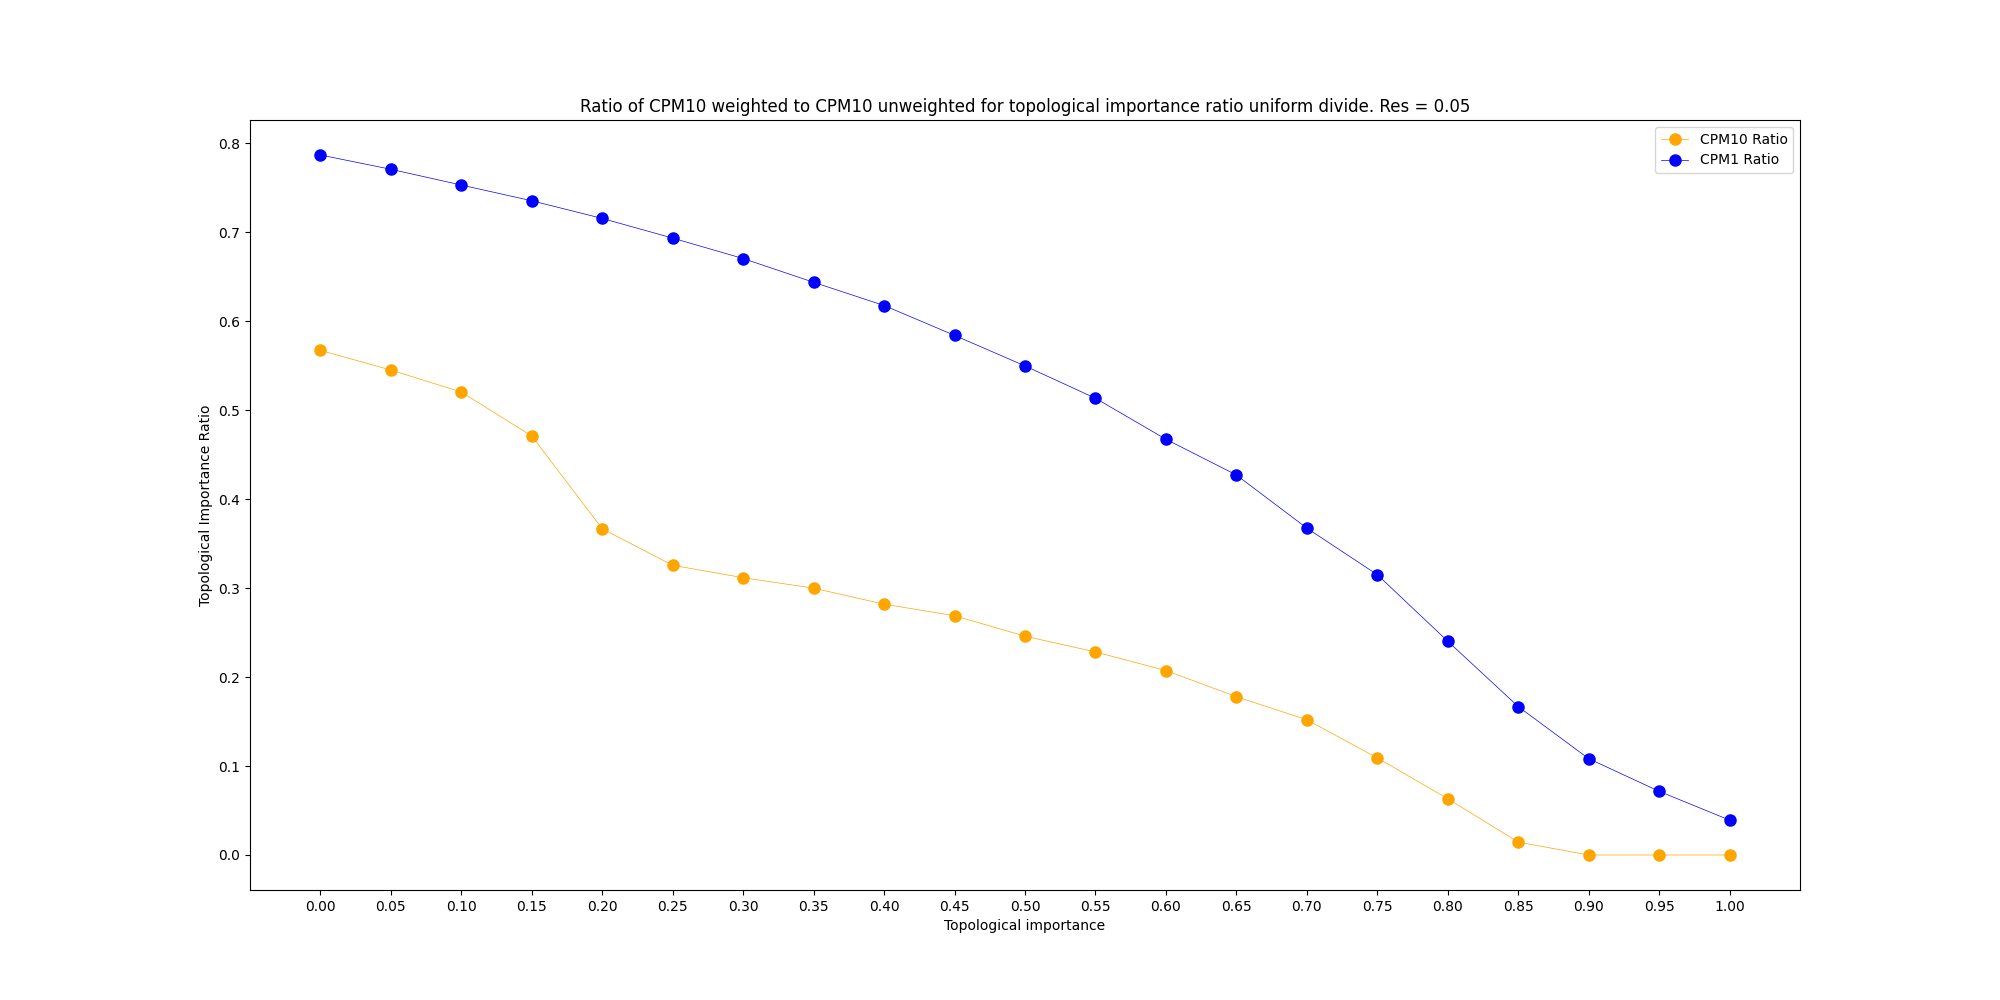
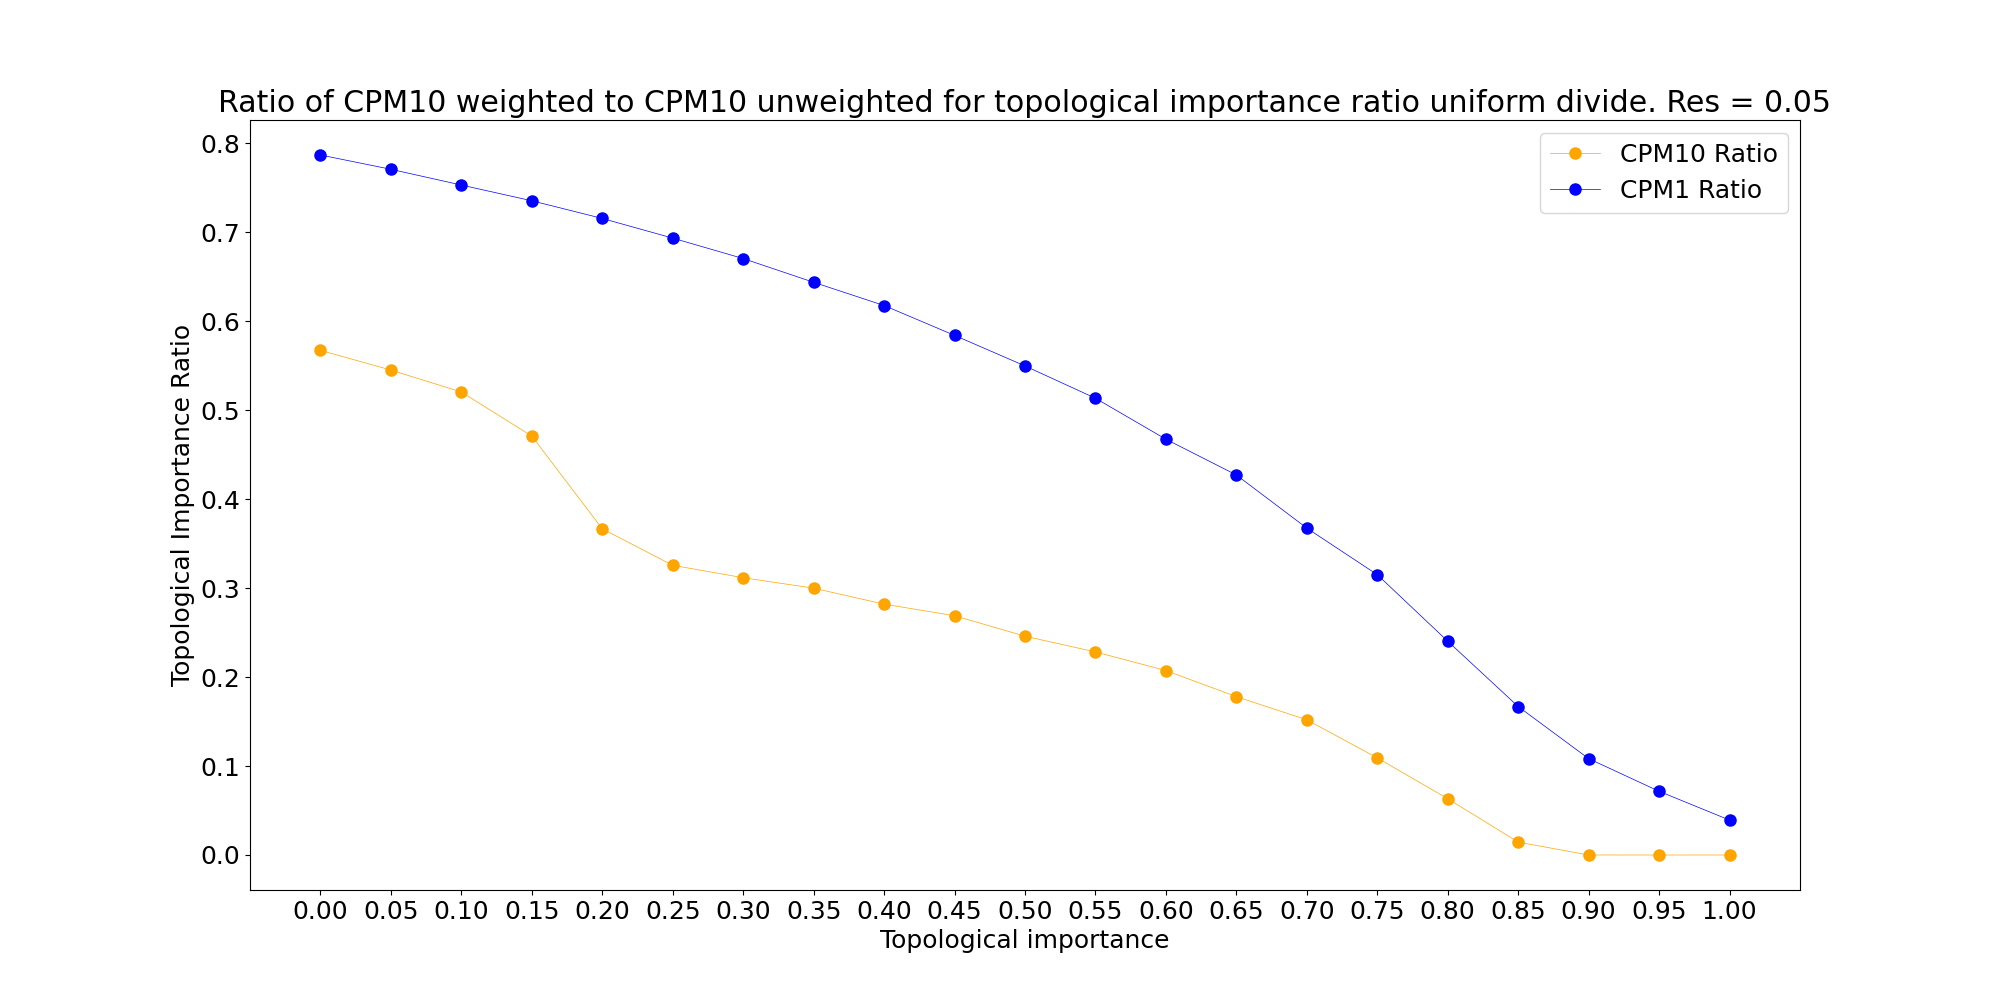
Added coverage for res test

diff --git a/step_10_cluster/weighting_clustering_pipeline.py b/step_10_cluster/weighting_clustering_pipeline.py
@@ -396,9 +396,12 @@ def calculate_node_coverage(clustering_dict, min_acceptable_cluster_size):
     total_nodes = 0
     elligible_covered_nodes = 0
 
-    clustering_array = clustering_dict.values()
+    clustering_array = clustering_dict.values() #Shall be list of clusters
 
     for cluster in clustering_array:
+        if type(cluster) != list:
+            continue
+
         total_nodes += len(cluster)
         if len(cluster) >=  min_acceptable_cluster_size:
             elligible_covered_nodes += len(cluster)
@@ -450,8 +453,7 @@ def CPM_weighting_plotter():
     cpm_10_ratio = [f/uw_cpm_10 for f in w_cpm_10_list]
     cpm_1_ratio = [f/uw_cpm_1 for f in w_cpm_1_list]
 
-    print(coverage1_list)
-    print(coverage10_list)
+    plt.rcParams.update({'font.size': 18})  # Adjust the font size as needed
 
     base_dir = 'figures/sweep_bi_feature/'
 
@@ -517,6 +519,9 @@ def CPM_gt10_plotter(files_dir = 'files/results/sweeping_res_constant_weight/clu
     gt10 = []
     x_label = []
 
+    coverage10_list = []
+    coverage1_list = []
+
     for file in selected_files:
         file_url = files_dir + file
 
@@ -533,15 +538,24 @@ def CPM_gt10_plotter(files_dir = 'files/results/sweeping_res_constant_weight/clu
         gt10.append(np.log10(gt10_counter))
         res = float(file.split('_')[-1][:-5])
         # x_label.append(res)
-        x_label.append(np.log10(res))
+        x_label.append(np.round(np.log10(res),2))
+
+        cov1 = calculate_node_coverage(clustering_dict, 2)
+        cov10 = calculate_node_coverage(clustering_dict, 11)
+
+        coverage1_list.append(cov1)
+        coverage10_list.append(cov10)
+
+
+    plt.rcParams.update({'font.size': 16})  # Adjust the font size as needed
 
 
     print(gt10)
     print(x_label)
 
-    base_dir = 'figures/sweep_bi_feature/'
+    base_dir = 'figures/res_sweep_constant_weights/'
 
-    plt.figure(figsize=(20, 10))  # Adjust the width and height as needed
+    plt.figure(figsize=(40, 10))  # Adjust the width and height as needed
 
     plt.plot(x_label, gt10, 'o-', linewidth=0.5, markersize=8)
 
@@ -552,6 +566,27 @@ def CPM_gt10_plotter(files_dir = 'files/results/sweeping_res_constant_weight/clu
     plt.xticks(x_label)
     # Save the plot as an image file (e.g., PNG)
     plt.savefig(f'{base_dir}cpm_gt_10.png')
+
+    # Show the plot
+    plt.show()
+
+
+
+
+    plt.figure(figsize=(40, 10))  # Adjust the width and height as needed
+
+    plt.plot(x_label, coverage10_list, 'o-', color='orange', linewidth=0.5, markersize=8, label='Coverage10 %')
+    plt.plot(x_label, coverage1_list, 'o-', color='blue', linewidth=0.5, markersize=8, label='Coverage1 %')
+
+    plt.xlabel('Log10 resolution value')
+    plt.ylabel('Coverage %')
+    plt.title('Coverage % for different resolution values and constant weights')
+    plt.xticks(x_label)
+    # Show legend
+    plt.legend()
+
+    # Save the plot as an image file (e.g., PNG)
+    plt.savefig(f'{base_dir}res_sweep_node_coverage.png')
 
     # Show the plot
     plt.show()
@@ -655,8 +690,8 @@ if __name__ == '__main__': # 248213
     # spark.sparkContext.setLogLevel("WARN")
 
 
-    CPM_weighting_plotter()
-    # CPM_gt10_plotter()
+    # CPM_weighting_plotter()
+    CPM_gt10_plotter()
     exit(0)
     name = 'files/raw_features.h5'
     #Lets switch to pandas from now on
